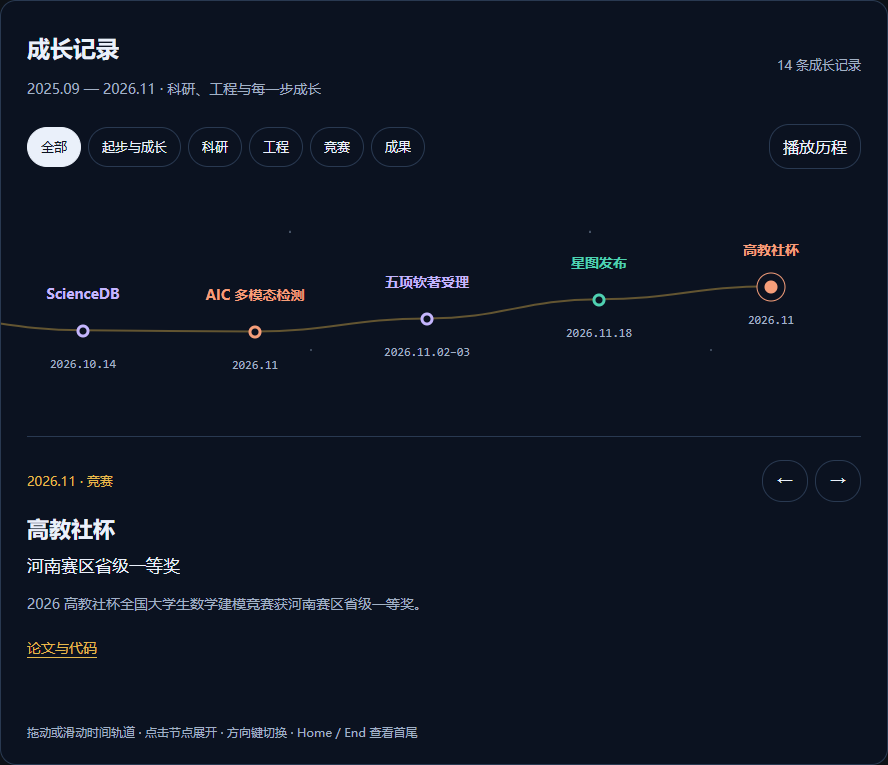
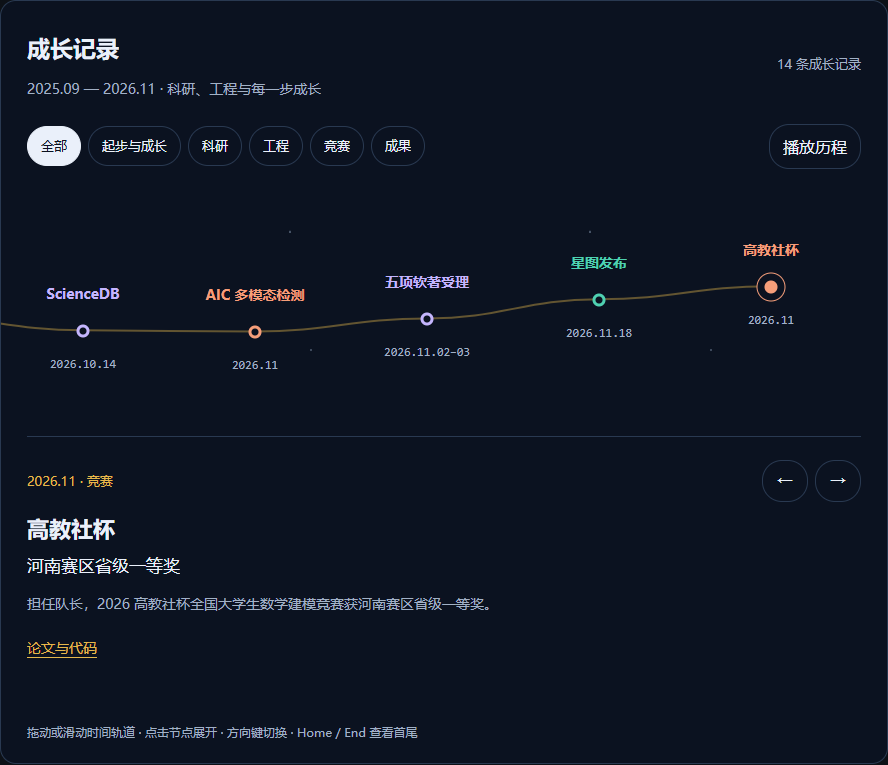
Sync CUMCM team-leader role across site timeline and resumes

diff --git a/index.html b/index.html
@@ -33,4 +33,4 @@ body a{color:#0969da}body a:focus-visible{outline:2px solid currentColor;outline
 <picture><source media="(prefers-color-scheme: dark)" srcset="assets/badges/neo4j.svg"/><img alt="Neo4j" src="assets/badges/neo4j-light.svg"/></picture>
 <picture><source media="(prefers-color-scheme: dark)" srcset="assets/badges/docker.svg"/><img alt="Docker" src="assets/badges/docker-light.svg"/></picture>
 <picture><source media="(prefers-color-scheme: dark)" srcset="assets/badges/latex.svg"/><img alt="LaTeX" src="assets/badges/latex-light.svg"/></picture>
-</div></section><section id="education"><h2>教育背景</h2><p><b>河南工业大学　计算机科学与技术（本科）｜2025.09—2029.06（预计）</b></p><p><a href="https://cs.haut.edu.cn/">复杂性科学研究院</a>「<a href="https://cs.haut.edu.cn/info/1421/8304.htm">飞鸟创新实验班</a>」2025 级首届成员，导师刘广恩。</p><p>学生工作：信息学院第二十三届学生会学习部成员；明德书院校运会铅球队队长。</p><p>社会实践：参加学校组织的暑期“三下乡”与寒假返乡宣传。</p></section><section aria-label="公开经历与技术能力三维关系图" class="graph-section" id="ability-graph"><div class="graph-bar"><div><h2>项目与技术能力图谱</h2><p>拖动旋转 · 滚轮缩放 · 点击节点查看对应经历</p></div><div class="graph-controls"><button aria-pressed="false" id="graph-pause" type="button">暂停旋转</button><button id="graph-reset" type="button">复位</button><button aria-label="放大图谱" id="graph-zoom-in" type="button">＋</button><button aria-label="缩小图谱" id="graph-zoom-out" type="button">－</button></div></div><div class="graph-body"><div class="graph-viewport" id="graph-viewport"><div class="graph-message" id="graph-message">正在加载空间图谱…</div></div><aside aria-live="polite" class="graph-panel"><span class="node-type" id="node-type">公开项目与实际使用技术</span><h3 id="node-name">王佳豪</h3><p id="node-description">选择节点可查看项目与技术的对应关系。下方保留完整的职责、技术和成果介绍。</p><a href="#projects" id="node-link">查看项目经历</a><div class="node-shortcuts"><button data-select="xingtu" type="button">星图</button><button data-select="eeg" type="button">脑电研究</button><button data-select="aic" type="button">多模态检测</button><button data-select="quantum" type="button">量子编译</button><button data-select="landslide" type="button">边坡哨兵</button><button data-select="changtu" type="button">畅途灵控</button><button data-select="class" type="button">Class</button></div></aside></div><div class="graph-filter"><button aria-pressed="true" data-filter="all" type="button">全部</button><button aria-pressed="false" data-filter="research" type="button">科研</button><button aria-pressed="false" data-filter="engineering" type="button">工程</button><button aria-pressed="false" data-filter="algorithms" type="button">算法</button><small>连线表示项目与技术关联，不表示能力评分</small></div></section><section id="research"><h2>科研经历</h2><article class="project" id="project-eeg"><h3>跨被试脑电情感识别</h3><p class="label"><b>科研进行中</b>　｜　角色：独立研究</p><p class="label"><b>技术栈：</b>Python · PyTorch · Mamba / SSM · Transformer · 图结构建模</p><p>面向脑电情感识别中的跨被试泛化问题，开展深度时空特征建模研究。</p><ul><li>基于状态空间模型、注意力机制与图结构建模技术开展研究，完成数据处理、训练评估及对照实验。</li><li>在 DEAP、SEED 数据集上开展 LOSO 跨被试评估，维护实验配置、结果归档与分析记录，推进论文撰写。</li></ul></article></section><section class="project-no-art" id="projects"><h2>项目经历</h2><article class="entry" id="project-ssvep"><h3>AIC · 脑电信号分类（SSVEP）</h3><p>围绕稳态视觉诱发电位（SSVEP）脑电信号分类，开展信号预处理、特征建模、分类器训练与评测；负责实验对照、结果复核及可复现归档。比赛进行中。</p></article><article class="project" id="project-xingtu"><h3><a href="https://github.com/Talent-Star-Map/XINGTU">星图 · 岗位能力图谱动态演化与分析系统</a></h3><p class="label"><b>团队项目 · 持续开发与迭代</b>　｜　角色：业务模块、三维图谱与交互开发，系统验证及部署发布</p><p class="label"><b>参赛经历：</b>“揭榜挂帅”赛项、第三届“讯飞杯”AI+教育方向。</p><p class="label"><b>技术栈：</b>React · TypeScript · FastAPI · SQLAlchemy · MySQL · MongoDB · Neo4j · Docker</p><p>面向岗位技能分析与人岗匹配的平台，持续迭代岗位信息、能力图谱、简历管理和匹配分析；团队近期新增 AI 模拟面试、反馈报告 PDF 导出及企业认证审核功能。</p><ul><li>负责求职端个人中心、简历管理及企业信息相关模块开发。</li><li>开发个人经历三维技术图谱，将简历经历、技术节点与原文证据关联，支持节点选择、经历筛选及旋转缩放；完成鉴权接口联调与生产部署。</li><li>在简历与岗位描述解析中实现大模型结构化信息抽取、原文证据校验与规则校验，结合多源信息比对及置信度评分，识别缺乏原文依据的技能信息。</li><li>承担测试文档编制、论文补充实验与结果复核，核对数据划分、实验记录及论文图表的一致性。</li><li>完成新服务器选型与存储扩容，部署前端、后端、三类数据库和采集程序共 6 个容器；核验数据库迁移结果，配置备份并编写团队 SSH 自动连接工具。</li><li>完成首页、连续星河登录动画与全站品牌统一，覆盖三角色导航、深浅主题及移动端；构建前端发布镜像，核验线上静态资源和三角色真实登录后完成部署，保留可回滚版本。</li></ul><p><a href="https://47.120.76.16/">在线平台</a></p></article><article class="project" id="project-landslide"><h3><a href="https://github.com/Dsegnr/landslide-sentinel-web">边坡哨兵 · 滑坡监测与分级预警系统</a></h3><p class="label"><b>团队项目 · 数据分析、算法与 Web 开发</b></p><p class="label"><b>技术栈：</b>Python · React · TypeScript · FastAPI · SQLAlchemy · 三维可视化</p><p>围绕边坡监测场景，结合监测数据分析与 Web 系统，提供监测点管理、设备状态、分级预警、历史记录及三维地形展示。</p><ul><li>承担数据处理、预警分析与 Web 可视化相关开发，衔接监测数据、设备状态与预警信息，参与系统测试及部署。</li><li>整理独立 Web 源码快照及在线演示；三维场景用于监测与地形关系展示。相关公开数据成果见下方 ScienceDB 条目。</li></ul><p><a href="https://substance-searched-fish-responding.trycloudflare.com">在线演示（临时隧道；普通账号见仓库）</a></p></article><article class="project" id="project-changtu"><h3><a href="https://github.com/Dsegnr/changtu-lingkong">畅途灵控 · 多路口交通协同与 GIS 决策工作台</a></h3><p class="label"><b>路网仿真、控制验证与工作台开发 · 阶段归档</b></p><p class="label"><b>技术栈：</b>Python · SUMO · SuperMap GIS · React · TypeScript</p><p>延续早期畅途灵控方向，研究多路口交通信号协同，构建策略对照、地图回放与证据追溯工作台。</p><ul><li>构建连通路网仿真，跟踪同车跨路口身份与全程耗时；比较固定、压力与联合控制，分析下游接收空间、回堵及逐车损益。</li><li>开发地图回放、相位时间线、方案对照及任务记录；实现资源路径隔离、哈希校验、任务存储及 SuperMap 空间查询适配。</li><li>公开正式前端及可迁移模块源码；完整回放资产和第三方 SDK 未分发，现场验证尚未完成。</li></ul></article><article class="project" id="project-aic"><h3><a href="https://github.com/Dsegnr/aic2026-multimodal-detection">城市场景视觉多模态目标检测</a></h3><p class="label"><b>AIC 省赛三等奖</b>　｜　角色：参赛成员</p><p class="label"><b>技术栈：</b>PyTorch · D-FINE · YOLO · 多模态融合</p><p>全球校园人工智能算法精英大赛“面向城市场景的视觉多模态目标检测”赛题项目。</p><ul><li>围绕可见光、红外与深度信息开展多模态目标检测研究，完成数据对齐、特征融合与模型评测；获省赛三等奖。</li></ul></article><article class="project" id="project-secops"><h3><a href="https://github.com/Dsegnr/sentinel-secops">Sentinel · 安全研判与防御工作台</a></h3><p class="label"><b>个人项目 · 原型持续完善中</b></p><p class="label"><b>技术栈：</b>Python · FastAPI · Jinja2 · PowerShell · pytest</p><p>面向个人与小团队的本地安全研判工具原型，提供命令行和 Web 工作台，集成公开情报查询、证据报告、主机安全基线检查及资产与告警管理。</p><ul><li>实现域名／URL、IP 与邮件分析、结构化报告生成、SHA-256 证据清单导出，以及案件归档、资产与告警管理；支持 Windows 安全基线比对、加固脚本审阅与可选的大模型报告解释。</li><li>公开版本包含程序与测试，不含个人知识库、案件或实际配置。</li></ul></article><article class="project" id="project-quantum"><h3><a href="https://github.com/Dsegnr/ccf-quantum-compiler">噪声自适应量子编译器</a></h3><p class="label"><b>CCF 量旋杯 · 算法赛道</b>　｜　角色：算法实现与评测</p><p class="label"><b>技术栈：</b>Python · Cirq · SABRE · NISQ</p><p>基于 SABRE 映射算法，面向 NISQ 硬件开展量子线路布局与路由的噪声自适应优化。</p><ul><li>实现噪声感知路由、多策略初始布局与正反向交替优化；公开题评测综合评分 0.7550。</li></ul></article><article class="project" id="project-modeling"><h3><a href="https://github.com/Dsegnr/math-modeling">数学建模竞赛</a></h3><p class="label"><b>技术栈：</b>Python · 几何定位 · 时序预测 · 蒙特卡洛模拟 · 优化建模</p><div class="modeling-event"><h4><a href="https://github.com/Dsegnr/math-modeling/tree/main/cumcm-2026">高教社杯 2026 · B 题</a></h4><p class="label"><b>河南赛区省级一等奖</b></p><p>无线电干扰源的快速自动定位与清除。围绕测向定位、主动观测点设计、覆盖证书与顺路清除开展建模与算法实现；六局正式测试中，问题三清除 35/35 个源，问题四清除 37/37 个源。</p></div><div class="modeling-event"><h4><a href="https://github.com/Dsegnr/math-modeling/tree/main/apmcm-2026">APMCM 2026 · A 题</a></h4><p class="label"><b>中文赛项 · 本科组二等奖</b></p><p>自来水厂水质预测与评估。担任队长，负责问题建模、算法实现、结果验证与论文统稿，运用时序预测、时滞分析和风险评价方法完成水质建模。</p></div><div class="modeling-event"><h4><a href="https://github.com/Dsegnr/math-modeling/tree/main/huashubei-2026">华数杯 2026 · A 题</a></h4><p class="label"><b>本科生组全国三等奖</b></p><p>微构体中填充导电介质的仿真优化。担任队长，负责建模、算法实现、结果验证与论文统稿，结合三维连通判定、蒙特卡洛模拟、置信区间估计与成本优化求解。</p></div></article><article class="project" id="project-class"><h3><a href="https://github.com/Dsegnr/Class">Class · 班级事务空间</a></h3><p class="label"><b>个人项目 · 需求、全栈开发与部署维护</b></p><p class="label"><b>技术栈：</b>React · TypeScript · FastAPI · SQLAlchemy · SQLite / MySQL</p><p>面向班级材料收集、审核与日常协作的小型 Web 应用。</p><ul><li>完成任务发布、材料提交与审核、原件批量导出、抽签、值日和通知功能，承担需求整理、前后端开发、测试与部署维护。</li><li>公开脱敏源码与虚构示例；正式站点需授权登录，账号密码、真实名册及学生材料不公开。</li></ul><p><a href="https://47.105.102.3/collect/">班级站点（需授权登录）</a></p></article><article class="project" id="project-xinling"><h3><a href="https://github.com/Dsegnr/xinling-mental-health">心聆 · 青少年心理健康多模态智能筛查平台</a></h3><p class="label"><b>方案设计</b>　｜　角色：项目负责人</p><p class="label"><b>方案涉及技术：</b>脑电采集 · 跨被试建模 · 联邦学习</p><p>面向青少年心理健康筛查需求，设计多模态智能筛查平台方案。</p><ul><li>负责项目整体方案与技术路线设计，完成 22 页项目计划书。</li></ul></article></section><picture class="art-divider"><source media="(prefers-color-scheme:dark)" srcset="assets/separator.svg"/><img alt="脑电波形与知识关联装饰" height="125" loading="lazy" src="assets/separator-light.svg" width="1200"/></picture><section id="research-data"><h2>科研数据成果</h2><p>以<b>第一作者</b>在 Science Data Bank 发布《三峡库区白家包滑坡2017–2024年监测数据与双时间尺度分级预警方法的复现数据与代码》（V1，2026.10.14），整理监测资料、处理结果与复现材料。</p><p><a href="https://doi.org/10.57760/sciencedb.014lj">DOI：10.57760/sciencedb.014lj</a> · <a href="https://www.scidb.cn/detail?dataSetId=7bc8827743a441cc9d881e3f7d181a16">数据集页面</a></p></section><section id="honors"><h2>竞赛与荣誉</h2><ul class="honor"><li id="honor-cumcm">高教社杯全国大学生数学建模竞赛：河南赛区省级一等奖｜2026　<a href="https://github.com/Dsegnr/math-modeling/tree/main/cumcm-2026">论文与代码</a></li><li>蓝桥杯全国软件和信息技术专业人才大赛：C/C++ 程序设计大学 B 组河南赛区一等奖、全国总决赛三等奖｜2026</li><li>全球校园人工智能算法精英大赛（AIC）多模态目标检测赛项：省赛三等奖｜2026</li><li>APMCM 亚太地区大学生数学建模竞赛（中文赛项）：本科组二等奖｜2026　<a href="https://github.com/Dsegnr/math-modeling/tree/main/apmcm-2026">论文与代码</a></li><li>“华数杯”全国大学生数学建模竞赛：本科生组全国三等奖｜2026　<a href="https://github.com/Dsegnr/math-modeling/tree/main/huashubei-2026">论文与代码</a></li><li>“挑战杯”院赛二等奖｜2026</li><li>河南工业大学 2025 年度“三好学生”｜2026.05</li></ul></section><section><h2>证书</h2><ul><li>全国大学英语四级（CET-4）：497 分。</li><li>工业互联网平台开发工程师（中级）。</li></ul></section><section id="software-copyright"><h2>软件著作权</h2><p>5 项计算机软件著作权登记申请已由中国版权保护中心受理，其中 3 项列第一著作权人，2 项列第六著作权人。</p><ul><li>星图智能简历解析与简历管理软件 V1.0 ｜ <strong>第一著作权人</strong> ｜ 2026.11.02</li><li>滑坡多传感器融合与涌浪风险估算软件 V1.0 ｜ <strong>第一著作权人</strong> ｜ 2026.11.02</li><li>边坡哨兵滑坡灾害协同感知与预警系统 V1.0 ｜ <strong>第一著作权人</strong> ｜ 2026.11.02</li><li>企业岗位能力图谱演化分析与智能匹配系统 V1.0 ｜ 第六著作权人 ｜ 2026.11.02</li><li>面向求职者的智能人岗匹配与诊断系统 V1.0 ｜ 第六著作权人 ｜ 2026.11.03</li></ul></section><section><h2>其他参赛经历</h2><ul><li id="competition-market">“正大杯”全国大学生市场调查与分析大赛：个人知识赛网考87分合格，团队实践赛筹备中。</li><li>AIC 脑电信号分类（SSVEP）｜参赛中｜2026</li><li>中国高校计算机大赛 · 团体程序设计天梯赛｜2026 参赛经历</li></ul></section><section><h2>开源仓库</h2><ul><li><a href="https://github.com/Dsegnr/changtu-lingkong">changtu-lingkong</a>　畅途灵控 · 多路口交通协同与 GIS 决策工作台</li><li><a href="https://github.com/Dsegnr/Class">Class</a>　Class · 班级事务空间</li><li><a href="https://github.com/Dsegnr/landslide-sentinel-web">landslide-sentinel-web</a>　边坡哨兵 Web：多传感器监测、分级预警与三维情景展示；仓库附在线演示及普通账号。</li><li><a href="https://github.com/Dsegnr/sentinel-secops">sentinel-secops</a>　Sentinel 本地安全研判与防御工具原型，包含 CLI、Web 工作台与测试。</li><li><a href="https://github.com/Dsegnr/aic2026-multimodal-detection">aic2026-multimodal-detection</a>　AIC 省赛三等奖项目：训练、推理、评测与历史实验配置。</li><li><a href="https://github.com/Talent-Star-Map/XINGTU">Talent-Star-Map/XINGTU</a>　星图 · 岗位能力图谱动态演化与分析系统（团队仓库，本人为开发者之一）</li><li><a href="https://github.com/Dsegnr/math-modeling">math-modeling</a>　数学建模竞赛作品：高教社杯、APMCM 与华数杯的论文、代码、数据与结果表</li><li><a href="https://github.com/Dsegnr/ccf-quantum-compiler">ccf-quantum-compiler</a>　噪声自适应量子编译器（2026 CCF 量旋杯 · 算法赛道，含 21 页作品说明文档）</li><li><a href="https://github.com/Dsegnr/xinling-mental-health">xinling-mental-health</a>　心聆 · 青少年心理健康多模态智能筛查平台（项目计划书、LaTeX 源码与配图）</li><li><a href="https://github.com/Dsegnr/Dsegnr.github.io">Dsegnr.github.io</a>　本主页与简历的源码</li></ul></section><section class="gt" id="growth-timeline" aria-labelledby="growth-heading"><div class="gt-header"><div><h2 id="growth-heading">成长记录</h2><p>2025.09 — 2026.11 · 科研、工程与每一步成长</p></div><span class="gt-count" data-gt="count">14 条成长记录</span></div><div class="gt-toolbar" data-gt="toolbar" hidden><div class="gt-filters" data-gt="filters" role="group" aria-label="按经历类型筛选"></div><button class="gt-play" type="button" data-gt="play" aria-pressed="false">播放历程</button></div><div class="gt-scroller" data-gt="scroller" tabindex="0" aria-label="成长时间轨道，可左右滑动" hidden><div class="gt-track" data-gt="track" role="group" aria-label="选择成长节点"></div></div><div class="gt-detail" id="growth-detail" data-gt="detail" aria-live="polite" aria-atomic="true" hidden><div class="gt-detail-head"><span class="gt-detail-date" data-gt="date"></span><div class="gt-steps"><button class="gt-step" data-gt="previous" type="button" aria-label="上一条经历">←</button><button class="gt-step" data-gt="next" type="button" aria-label="下一条经历">→</button></div></div><h3 data-gt="title"></h3><p class="gt-subtitle" data-gt="subtitle"></p><p class="gt-description" data-gt="description"></p><a data-gt="link">查看对应经历</a></div><ol class="gt-fallback" data-gt="fallback"><li><time>2025.09</time>　<a href="#education">入学</a>：河南工业大学 · 计算机科学与技术</li><li><time>2025.09</time>　<a href="#project-eeg">脑电研究起步</a>：跨被试脑电情感识别</li><li><time>2026.04</time>　<a href="#education">体育文化节</a>：男子引体向上三等奖</li><li><time>2026.05</time>　<a href="#honors">三好学生</a>：2025 年度校级荣誉</li><li><time>2026.05</time>　<a href="#honors">蓝桥杯省赛</a>：河南赛区一等奖</li><li><time>2026.06</time>　<a href="https://github.com/Dsegnr/math-modeling/tree/main/apmcm-2026">APMCM</a>：中文赛项 · 本科组二等奖</li><li><time>2026.06.17</time>　<a href="#honors">蓝桥杯国赛</a>：全国总决赛三等奖</li><li><time>2026.07.22</time>　<a href="#honors">工业互联网</a>：平台开发工程师（中级）</li><li><time>2026.08</time>　<a href="https://github.com/Dsegnr/math-modeling/tree/main/huashubei-2026">华数杯</a>：本科生组全国三等奖</li><li><time>2026.10.14</time>　<a href="https://doi.org/10.57760/sciencedb.014lj">ScienceDB</a>：第一作者数据成果 · V1</li><li><time>2026.11</time>　<a href="#project-aic">AIC 多模态检测</a>：省赛三等奖</li><li><time>2026.11.02–03</time>　<a href="#software-copyright">五项软著受理</a>：三项列第一著作权人</li><li><time>2026.11.18</time>　<a href="#project-xingtu">星图发布</a>：首页、星河登录与品牌统一</li><li><time>2026.11</time>　<a href="https://github.com/Dsegnr/math-modeling/tree/main/cumcm-2026">高教社杯</a>：河南赛区省级一等奖</li></ol><p class="gt-help" data-gt="help" hidden>拖动或滑动时间轨道 · 点击节点展开 · 方向键切换 · Home / End 查看首尾</p></section><footer>王佳豪 · Dsegnr　｜　更新于 2026.11.21</footer></main><script type="importmap">{"imports":{"three":"./vendor/three.module.js"}}</script><script src="assets/ability-graph.js" type="module"></script><script type="module" src="assets/growth-timeline.js"></script></body></html>
+</div></section><section id="education"><h2>教育背景</h2><p><b>河南工业大学　计算机科学与技术（本科）｜2025.09—2029.06（预计）</b></p><p><a href="https://cs.haut.edu.cn/">复杂性科学研究院</a>「<a href="https://cs.haut.edu.cn/info/1421/8304.htm">飞鸟创新实验班</a>」2025 级首届成员，导师刘广恩。</p><p>学生工作：信息学院第二十三届学生会学习部成员；明德书院校运会铅球队队长。</p><p>社会实践：参加学校组织的暑期“三下乡”与寒假返乡宣传。</p></section><section aria-label="公开经历与技术能力三维关系图" class="graph-section" id="ability-graph"><div class="graph-bar"><div><h2>项目与技术能力图谱</h2><p>拖动旋转 · 滚轮缩放 · 点击节点查看对应经历</p></div><div class="graph-controls"><button aria-pressed="false" id="graph-pause" type="button">暂停旋转</button><button id="graph-reset" type="button">复位</button><button aria-label="放大图谱" id="graph-zoom-in" type="button">＋</button><button aria-label="缩小图谱" id="graph-zoom-out" type="button">－</button></div></div><div class="graph-body"><div class="graph-viewport" id="graph-viewport"><div class="graph-message" id="graph-message">正在加载空间图谱…</div></div><aside aria-live="polite" class="graph-panel"><span class="node-type" id="node-type">公开项目与实际使用技术</span><h3 id="node-name">王佳豪</h3><p id="node-description">选择节点可查看项目与技术的对应关系。下方保留完整的职责、技术和成果介绍。</p><a href="#projects" id="node-link">查看项目经历</a><div class="node-shortcuts"><button data-select="xingtu" type="button">星图</button><button data-select="eeg" type="button">脑电研究</button><button data-select="aic" type="button">多模态检测</button><button data-select="quantum" type="button">量子编译</button><button data-select="landslide" type="button">边坡哨兵</button><button data-select="changtu" type="button">畅途灵控</button><button data-select="class" type="button">Class</button></div></aside></div><div class="graph-filter"><button aria-pressed="true" data-filter="all" type="button">全部</button><button aria-pressed="false" data-filter="research" type="button">科研</button><button aria-pressed="false" data-filter="engineering" type="button">工程</button><button aria-pressed="false" data-filter="algorithms" type="button">算法</button><small>连线表示项目与技术关联，不表示能力评分</small></div></section><section id="research"><h2>科研经历</h2><article class="project" id="project-eeg"><h3>跨被试脑电情感识别</h3><p class="label"><b>科研进行中</b>　｜　角色：独立研究</p><p class="label"><b>技术栈：</b>Python · PyTorch · Mamba / SSM · Transformer · 图结构建模</p><p>面向脑电情感识别中的跨被试泛化问题，开展深度时空特征建模研究。</p><ul><li>基于状态空间模型、注意力机制与图结构建模技术开展研究，完成数据处理、训练评估及对照实验。</li><li>在 DEAP、SEED 数据集上开展 LOSO 跨被试评估，维护实验配置、结果归档与分析记录，推进论文撰写。</li></ul></article></section><section class="project-no-art" id="projects"><h2>项目经历</h2><article class="entry" id="project-ssvep"><h3>AIC · 脑电信号分类（SSVEP）</h3><p>围绕稳态视觉诱发电位（SSVEP）脑电信号分类，开展信号预处理、特征建模、分类器训练与评测；负责实验对照、结果复核及可复现归档。比赛进行中。</p></article><article class="project" id="project-xingtu"><h3><a href="https://github.com/Talent-Star-Map/XINGTU">星图 · 岗位能力图谱动态演化与分析系统</a></h3><p class="label"><b>团队项目 · 持续开发与迭代</b>　｜　角色：业务模块、三维图谱与交互开发，系统验证及部署发布</p><p class="label"><b>参赛经历：</b>“揭榜挂帅”赛项、第三届“讯飞杯”AI+教育方向。</p><p class="label"><b>技术栈：</b>React · TypeScript · FastAPI · SQLAlchemy · MySQL · MongoDB · Neo4j · Docker</p><p>面向岗位技能分析与人岗匹配的平台，持续迭代岗位信息、能力图谱、简历管理和匹配分析；团队近期新增 AI 模拟面试、反馈报告 PDF 导出及企业认证审核功能。</p><ul><li>负责求职端个人中心、简历管理及企业信息相关模块开发。</li><li>开发个人经历三维技术图谱，将简历经历、技术节点与原文证据关联，支持节点选择、经历筛选及旋转缩放；完成鉴权接口联调与生产部署。</li><li>在简历与岗位描述解析中实现大模型结构化信息抽取、原文证据校验与规则校验，结合多源信息比对及置信度评分，识别缺乏原文依据的技能信息。</li><li>承担测试文档编制、论文补充实验与结果复核，核对数据划分、实验记录及论文图表的一致性。</li><li>完成新服务器选型与存储扩容，部署前端、后端、三类数据库和采集程序共 6 个容器；核验数据库迁移结果，配置备份并编写团队 SSH 自动连接工具。</li><li>完成首页、连续星河登录动画与全站品牌统一，覆盖三角色导航、深浅主题及移动端；构建前端发布镜像，核验线上静态资源和三角色真实登录后完成部署，保留可回滚版本。</li></ul><p><a href="https://47.120.76.16/">在线平台</a></p></article><article class="project" id="project-landslide"><h3><a href="https://github.com/Dsegnr/landslide-sentinel-web">边坡哨兵 · 滑坡监测与分级预警系统</a></h3><p class="label"><b>团队项目 · 数据分析、算法与 Web 开发</b></p><p class="label"><b>技术栈：</b>Python · React · TypeScript · FastAPI · SQLAlchemy · 三维可视化</p><p>围绕边坡监测场景，结合监测数据分析与 Web 系统，提供监测点管理、设备状态、分级预警、历史记录及三维地形展示。</p><ul><li>承担数据处理、预警分析与 Web 可视化相关开发，衔接监测数据、设备状态与预警信息，参与系统测试及部署。</li><li>整理独立 Web 源码快照及在线演示；三维场景用于监测与地形关系展示。相关公开数据成果见下方 ScienceDB 条目。</li></ul><p><a href="https://substance-searched-fish-responding.trycloudflare.com">在线演示（临时隧道；普通账号见仓库）</a></p></article><article class="project" id="project-changtu"><h3><a href="https://github.com/Dsegnr/changtu-lingkong">畅途灵控 · 多路口交通协同与 GIS 决策工作台</a></h3><p class="label"><b>路网仿真、控制验证与工作台开发 · 阶段归档</b></p><p class="label"><b>技术栈：</b>Python · SUMO · SuperMap GIS · React · TypeScript</p><p>延续早期畅途灵控方向，研究多路口交通信号协同，构建策略对照、地图回放与证据追溯工作台。</p><ul><li>构建连通路网仿真，跟踪同车跨路口身份与全程耗时；比较固定、压力与联合控制，分析下游接收空间、回堵及逐车损益。</li><li>开发地图回放、相位时间线、方案对照及任务记录；实现资源路径隔离、哈希校验、任务存储及 SuperMap 空间查询适配。</li><li>公开正式前端及可迁移模块源码；完整回放资产和第三方 SDK 未分发，现场验证尚未完成。</li></ul></article><article class="project" id="project-aic"><h3><a href="https://github.com/Dsegnr/aic2026-multimodal-detection">城市场景视觉多模态目标检测</a></h3><p class="label"><b>AIC 省赛三等奖</b>　｜　角色：参赛成员</p><p class="label"><b>技术栈：</b>PyTorch · D-FINE · YOLO · 多模态融合</p><p>全球校园人工智能算法精英大赛“面向城市场景的视觉多模态目标检测”赛题项目。</p><ul><li>围绕可见光、红外与深度信息开展多模态目标检测研究，完成数据对齐、特征融合与模型评测；获省赛三等奖。</li></ul></article><article class="project" id="project-secops"><h3><a href="https://github.com/Dsegnr/sentinel-secops">Sentinel · 安全研判与防御工作台</a></h3><p class="label"><b>个人项目 · 原型持续完善中</b></p><p class="label"><b>技术栈：</b>Python · FastAPI · Jinja2 · PowerShell · pytest</p><p>面向个人与小团队的本地安全研判工具原型，提供命令行和 Web 工作台，集成公开情报查询、证据报告、主机安全基线检查及资产与告警管理。</p><ul><li>实现域名／URL、IP 与邮件分析、结构化报告生成、SHA-256 证据清单导出，以及案件归档、资产与告警管理；支持 Windows 安全基线比对、加固脚本审阅与可选的大模型报告解释。</li><li>公开版本包含程序与测试，不含个人知识库、案件或实际配置。</li></ul></article><article class="project" id="project-quantum"><h3><a href="https://github.com/Dsegnr/ccf-quantum-compiler">噪声自适应量子编译器</a></h3><p class="label"><b>CCF 量旋杯 · 算法赛道</b>　｜　角色：算法实现与评测</p><p class="label"><b>技术栈：</b>Python · Cirq · SABRE · NISQ</p><p>基于 SABRE 映射算法，面向 NISQ 硬件开展量子线路布局与路由的噪声自适应优化。</p><ul><li>实现噪声感知路由、多策略初始布局与正反向交替优化；公开题评测综合评分 0.7550。</li></ul></article><article class="project" id="project-modeling"><h3><a href="https://github.com/Dsegnr/math-modeling">数学建模竞赛</a></h3><p class="label"><b>技术栈：</b>Python · 几何定位 · 时序预测 · 蒙特卡洛模拟 · 优化建模</p><div class="modeling-event"><h4><a href="https://github.com/Dsegnr/math-modeling/tree/main/cumcm-2026">高教社杯 2026 · B 题</a></h4><p class="label"><b>河南赛区省级一等奖</b></p><p>无线电干扰源的快速自动定位与清除。担任队长，围绕测向定位、主动观测点设计、覆盖证书与顺路清除开展建模与算法实现；六局正式测试中，问题三清除 35/35 个源，问题四清除 37/37 个源。</p></div><div class="modeling-event"><h4><a href="https://github.com/Dsegnr/math-modeling/tree/main/apmcm-2026">APMCM 2026 · A 题</a></h4><p class="label"><b>中文赛项 · 本科组二等奖</b></p><p>自来水厂水质预测与评估。担任队长，负责问题建模、算法实现、结果验证与论文统稿，运用时序预测、时滞分析和风险评价方法完成水质建模。</p></div><div class="modeling-event"><h4><a href="https://github.com/Dsegnr/math-modeling/tree/main/huashubei-2026">华数杯 2026 · A 题</a></h4><p class="label"><b>本科生组全国三等奖</b></p><p>微构体中填充导电介质的仿真优化。担任队长，负责建模、算法实现、结果验证与论文统稿，结合三维连通判定、蒙特卡洛模拟、置信区间估计与成本优化求解。</p></div></article><article class="project" id="project-class"><h3><a href="https://github.com/Dsegnr/Class">Class · 班级事务空间</a></h3><p class="label"><b>个人项目 · 需求、全栈开发与部署维护</b></p><p class="label"><b>技术栈：</b>React · TypeScript · FastAPI · SQLAlchemy · SQLite / MySQL</p><p>面向班级材料收集、审核与日常协作的小型 Web 应用。</p><ul><li>完成任务发布、材料提交与审核、原件批量导出、抽签、值日和通知功能，承担需求整理、前后端开发、测试与部署维护。</li><li>公开脱敏源码与虚构示例；正式站点需授权登录，账号密码、真实名册及学生材料不公开。</li></ul><p><a href="https://47.105.102.3/collect/">班级站点（需授权登录）</a></p></article><article class="project" id="project-xinling"><h3><a href="https://github.com/Dsegnr/xinling-mental-health">心聆 · 青少年心理健康多模态智能筛查平台</a></h3><p class="label"><b>方案设计</b>　｜　角色：项目负责人</p><p class="label"><b>方案涉及技术：</b>脑电采集 · 跨被试建模 · 联邦学习</p><p>面向青少年心理健康筛查需求，设计多模态智能筛查平台方案。</p><ul><li>负责项目整体方案与技术路线设计，完成 22 页项目计划书。</li></ul></article></section><picture class="art-divider"><source media="(prefers-color-scheme:dark)" srcset="assets/separator.svg"/><img alt="脑电波形与知识关联装饰" height="125" loading="lazy" src="assets/separator-light.svg" width="1200"/></picture><section id="research-data"><h2>科研数据成果</h2><p>以<b>第一作者</b>在 Science Data Bank 发布《三峡库区白家包滑坡2017–2024年监测数据与双时间尺度分级预警方法的复现数据与代码》（V1，2026.10.14），整理监测资料、处理结果与复现材料。</p><p><a href="https://doi.org/10.57760/sciencedb.014lj">DOI：10.57760/sciencedb.014lj</a> · <a href="https://www.scidb.cn/detail?dataSetId=7bc8827743a441cc9d881e3f7d181a16">数据集页面</a></p></section><section id="honors"><h2>竞赛与荣誉</h2><ul class="honor"><li id="honor-cumcm">高教社杯全国大学生数学建模竞赛：河南赛区省级一等奖｜2026　<a href="https://github.com/Dsegnr/math-modeling/tree/main/cumcm-2026">论文与代码</a></li><li>蓝桥杯全国软件和信息技术专业人才大赛：C/C++ 程序设计大学 B 组河南赛区一等奖、全国总决赛三等奖｜2026</li><li>全球校园人工智能算法精英大赛（AIC）多模态目标检测赛项：省赛三等奖｜2026</li><li>APMCM 亚太地区大学生数学建模竞赛（中文赛项）：本科组二等奖｜2026　<a href="https://github.com/Dsegnr/math-modeling/tree/main/apmcm-2026">论文与代码</a></li><li>“华数杯”全国大学生数学建模竞赛：本科生组全国三等奖｜2026　<a href="https://github.com/Dsegnr/math-modeling/tree/main/huashubei-2026">论文与代码</a></li><li>“挑战杯”院赛二等奖｜2026</li><li>河南工业大学 2025 年度“三好学生”｜2026.05</li></ul></section><section><h2>证书</h2><ul><li>全国大学英语四级（CET-4）：497 分。</li><li>工业互联网平台开发工程师（中级）。</li></ul></section><section id="software-copyright"><h2>软件著作权</h2><p>5 项计算机软件著作权登记申请已由中国版权保护中心受理，其中 3 项列第一著作权人，2 项列第六著作权人。</p><ul><li>星图智能简历解析与简历管理软件 V1.0 ｜ <strong>第一著作权人</strong> ｜ 2026.11.02</li><li>滑坡多传感器融合与涌浪风险估算软件 V1.0 ｜ <strong>第一著作权人</strong> ｜ 2026.11.02</li><li>边坡哨兵滑坡灾害协同感知与预警系统 V1.0 ｜ <strong>第一著作权人</strong> ｜ 2026.11.02</li><li>企业岗位能力图谱演化分析与智能匹配系统 V1.0 ｜ 第六著作权人 ｜ 2026.11.02</li><li>面向求职者的智能人岗匹配与诊断系统 V1.0 ｜ 第六著作权人 ｜ 2026.11.03</li></ul></section><section><h2>其他参赛经历</h2><ul><li id="competition-market">“正大杯”全国大学生市场调查与分析大赛：个人知识赛网考87分合格，团队实践赛筹备中。</li><li>AIC 脑电信号分类（SSVEP）｜参赛中｜2026</li><li>中国高校计算机大赛 · 团体程序设计天梯赛｜2026 参赛经历</li></ul></section><section><h2>开源仓库</h2><ul><li><a href="https://github.com/Dsegnr/changtu-lingkong">changtu-lingkong</a>　畅途灵控 · 多路口交通协同与 GIS 决策工作台</li><li><a href="https://github.com/Dsegnr/Class">Class</a>　Class · 班级事务空间</li><li><a href="https://github.com/Dsegnr/landslide-sentinel-web">landslide-sentinel-web</a>　边坡哨兵 Web：多传感器监测、分级预警与三维情景展示；仓库附在线演示及普通账号。</li><li><a href="https://github.com/Dsegnr/sentinel-secops">sentinel-secops</a>　Sentinel 本地安全研判与防御工具原型，包含 CLI、Web 工作台与测试。</li><li><a href="https://github.com/Dsegnr/aic2026-multimodal-detection">aic2026-multimodal-detection</a>　AIC 省赛三等奖项目：训练、推理、评测与历史实验配置。</li><li><a href="https://github.com/Talent-Star-Map/XINGTU">Talent-Star-Map/XINGTU</a>　星图 · 岗位能力图谱动态演化与分析系统（团队仓库，本人为开发者之一）</li><li><a href="https://github.com/Dsegnr/math-modeling">math-modeling</a>　数学建模竞赛作品：高教社杯、APMCM 与华数杯的论文、代码、数据与结果表</li><li><a href="https://github.com/Dsegnr/ccf-quantum-compiler">ccf-quantum-compiler</a>　噪声自适应量子编译器（2026 CCF 量旋杯 · 算法赛道，含 21 页作品说明文档）</li><li><a href="https://github.com/Dsegnr/xinling-mental-health">xinling-mental-health</a>　心聆 · 青少年心理健康多模态智能筛查平台（项目计划书、LaTeX 源码与配图）</li><li><a href="https://github.com/Dsegnr/Dsegnr.github.io">Dsegnr.github.io</a>　本主页与简历的源码</li></ul></section><section class="gt" id="growth-timeline" aria-labelledby="growth-heading"><div class="gt-header"><div><h2 id="growth-heading">成长记录</h2><p>2025.09 — 2026.11 · 科研、工程与每一步成长</p></div><span class="gt-count" data-gt="count">14 条成长记录</span></div><div class="gt-toolbar" data-gt="toolbar" hidden><div class="gt-filters" data-gt="filters" role="group" aria-label="按经历类型筛选"></div><button class="gt-play" type="button" data-gt="play" aria-pressed="false">播放历程</button></div><div class="gt-scroller" data-gt="scroller" tabindex="0" aria-label="成长时间轨道，可左右滑动" hidden><div class="gt-track" data-gt="track" role="group" aria-label="选择成长节点"></div></div><div class="gt-detail" id="growth-detail" data-gt="detail" aria-live="polite" aria-atomic="true" hidden><div class="gt-detail-head"><span class="gt-detail-date" data-gt="date"></span><div class="gt-steps"><button class="gt-step" data-gt="previous" type="button" aria-label="上一条经历">←</button><button class="gt-step" data-gt="next" type="button" aria-label="下一条经历">→</button></div></div><h3 data-gt="title"></h3><p class="gt-subtitle" data-gt="subtitle"></p><p class="gt-description" data-gt="description"></p><a data-gt="link">查看对应经历</a></div><ol class="gt-fallback" data-gt="fallback"><li><time>2025.09</time>　<a href="#education">入学</a>：河南工业大学 · 计算机科学与技术</li><li><time>2025.09</time>　<a href="#project-eeg">脑电研究起步</a>：跨被试脑电情感识别</li><li><time>2026.04</time>　<a href="#education">体育文化节</a>：男子引体向上三等奖</li><li><time>2026.05</time>　<a href="#honors">三好学生</a>：2025 年度校级荣誉</li><li><time>2026.05</time>　<a href="#honors">蓝桥杯省赛</a>：河南赛区一等奖</li><li><time>2026.06</time>　<a href="https://github.com/Dsegnr/math-modeling/tree/main/apmcm-2026">APMCM</a>：中文赛项 · 本科组二等奖</li><li><time>2026.06.17</time>　<a href="#honors">蓝桥杯国赛</a>：全国总决赛三等奖</li><li><time>2026.07.22</time>　<a href="#honors">工业互联网</a>：平台开发工程师（中级）</li><li><time>2026.08</time>　<a href="https://github.com/Dsegnr/math-modeling/tree/main/huashubei-2026">华数杯</a>：本科生组全国三等奖</li><li><time>2026.10.14</time>　<a href="https://doi.org/10.57760/sciencedb.014lj">ScienceDB</a>：第一作者数据成果 · V1</li><li><time>2026.11</time>　<a href="#project-aic">AIC 多模态检测</a>：省赛三等奖</li><li><time>2026.11.02–03</time>　<a href="#software-copyright">五项软著受理</a>：三项列第一著作权人</li><li><time>2026.11.18</time>　<a href="#project-xingtu">星图发布</a>：首页、星河登录与品牌统一</li><li><time>2026.11</time>　<a href="https://github.com/Dsegnr/math-modeling/tree/main/cumcm-2026">高教社杯</a>：河南赛区省级一等奖</li></ol><p class="gt-help" data-gt="help" hidden>拖动或滑动时间轨道 · 点击节点展开 · 方向键切换 · Home / End 查看首尾</p></section><footer>王佳豪 · Dsegnr　｜　更新于 2026.11.21</footer></main><script type="importmap">{"imports":{"three":"./vendor/three.module.js"}}</script><script src="assets/ability-graph.js" type="module"></script><script type="module" src="assets/growth-timeline.js"></script></body></html>

diff --git a/assets/ability-graph.js b/assets/ability-graph.js
@@ -22,7 +22,7 @@ const NODES=[
  {id:'xingtu',name:'星图',type:'团队项目',group:'engineering',p:[22,13,-5],description:'负责个人中心、简历与企业信息模块、个人经历三维图谱，以及首页、星河登录动画和品牌统一；承担实验复核、部署迁移与版本发布。项目用于“揭榜挂帅”及第三届“讯飞杯”AI+教育方向参赛。',anchor:'project-xingtu'},
  {id:'secops',name:'Sentinel',type:'个人项目',group:'engineering',p:[-28,-20,13],description:'本地安全研判与防御工具原型，包含公开情报、证据报告、主机基线与告警管理；仍在持续完善。',anchor:'project-secops'},
  {id:'quantum',name:'量子编译',type:'算法项目',group:'algorithms',p:[13,-18,14],description:'使用 Python、Cirq 与 SABRE 进行噪声自适应量子线路布局与路由优化。',anchor:'project-quantum'},
- {id:'modeling',name:'数学建模',type:'竞赛项目',group:'algorithms',p:[2,26,-15],description:'数学建模竞赛作品涵盖高教社杯、APMCM 与华数杯，分别研究干扰源定位清除、水质预测评估和导电介质仿真优化；获河南赛区省级一等奖、本科组二等奖及本科生组全国三等奖。',anchor:'project-modeling'},
+ {id:'modeling',name:'数学建模',type:'竞赛项目',group:'algorithms',p:[2,26,-15],description:'担任高教社杯、APMCM 与华数杯队长，分别研究干扰源定位清除、水质预测评估和导电介质仿真优化；获河南赛区省级一等奖、本科组二等奖及本科生组全国三等奖。',anchor:'project-modeling'},
  {id:'pytorch',name:'PyTorch',type:'技术',group:'research',p:[-34,3,14],description:'用于模型训练、推理与实验评估；关联脑电研究与多模态检测经历。',anchor:'skills'},
  {id:'mamba',name:'Mamba / SSM',type:'技术',group:'research',p:[-18,27,-13],description:'状态空间模型相关研究实践，应用于脑电时空特征建模。',anchor:'project-eeg'},
  {id:'yolo',name:'YOLO',type:'技术',group:'research',p:[-5,-31,-15],description:'城市场景视觉多模态目标检测项目中的目标检测技术。',anchor:'project-aic'},
